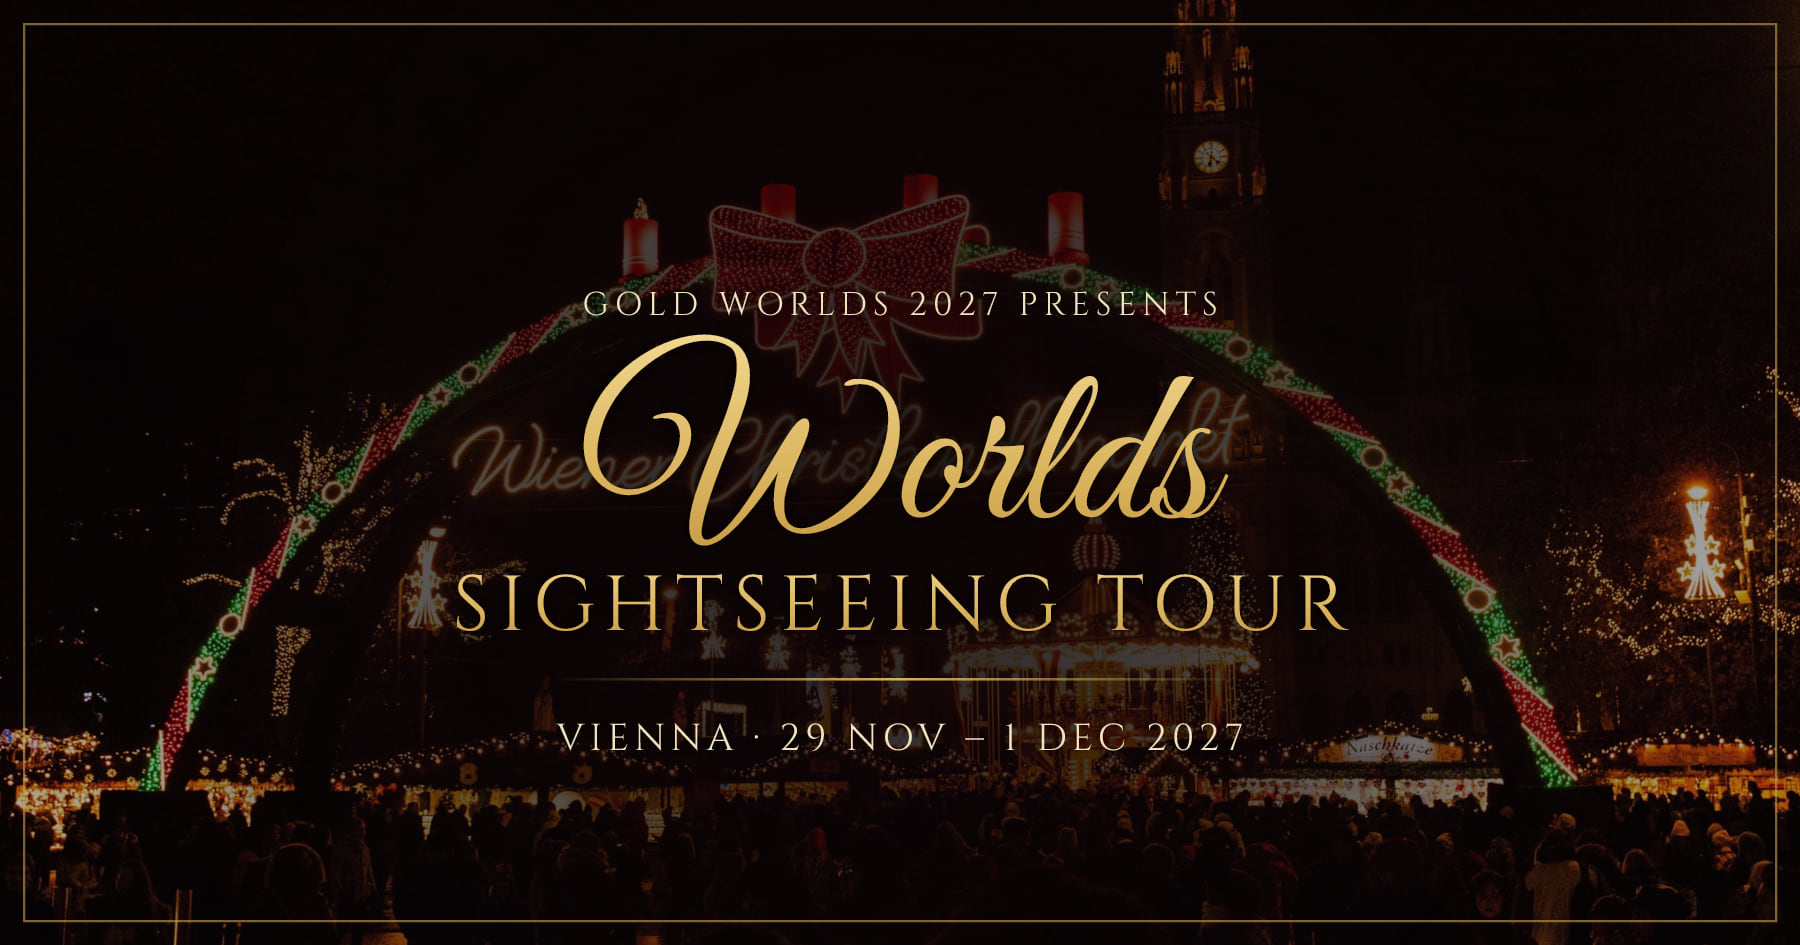
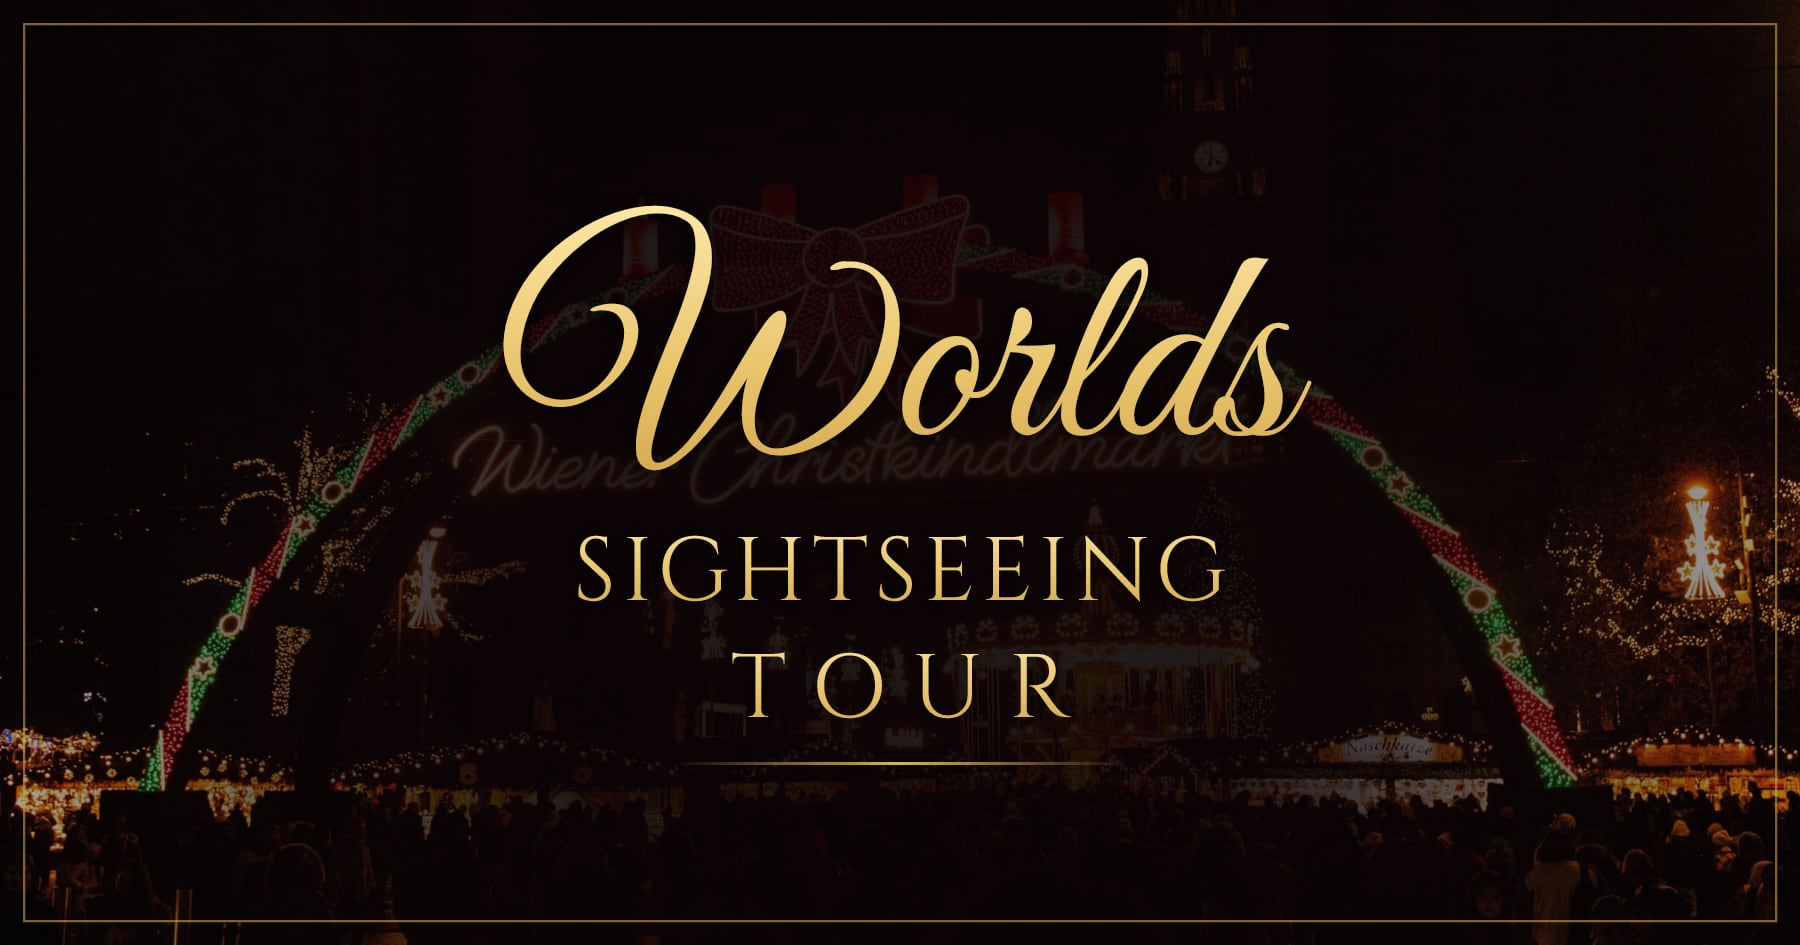
Tour share image readable as small thumbnail; add og:image type and secure_url

diff --git a/index.html b/index.html
@@ -12,7 +12,9 @@
 <meta property="og:title" content="Gold Worlds 2027 – Line Dance World Championship">
 <meta property="og:description" content="All official information, hotels, shuttle and more">
 <meta property="og:url" content="https://goldworlds2027.github.io/">
-<meta property="og:image" content="https://goldworlds2027.github.io/img/og-goldworlds.jpg?v=2">
+<meta property="og:image" content="https://goldworlds2027.github.io/img/og-goldworlds.jpg?v=3">
+<meta property="og:image:secure_url" content="https://goldworlds2027.github.io/img/og-goldworlds.jpg?v=3">
+<meta property="og:image:type" content="image/jpeg">
 <meta property="og:image:width" content="1800">
 <meta property="og:image:height" content="945">
 <meta property="og:image:alt" content="Gold Worlds 2027 emblem – Line Dance World Championship, Schwechat · Vienna, 2–5 December 2027">

diff --git a/tour.html b/tour.html
@@ -12,7 +12,9 @@
 <meta property="og:title" content="Worlds Sightseeing Tour – Gold Worlds 2027">
 <meta property="og:description" content="Three Christmas days in historic Vienna, 29 November – 1 December 2027">
 <meta property="og:url" content="https://goldworlds2027.github.io/tour.html">
-<meta property="og:image" content="https://goldworlds2027.github.io/img/og-tour.jpg?v=2">
+<meta property="og:image" content="https://goldworlds2027.github.io/img/og-tour.jpg?v=3">
+<meta property="og:image:secure_url" content="https://goldworlds2027.github.io/img/og-tour.jpg?v=3">
+<meta property="og:image:type" content="image/jpeg">
 <meta property="og:image:width" content="1800">
 <meta property="og:image:height" content="945">
 <meta property="og:image:alt" content="Worlds Sightseeing Tour – Vienna Christmas market at night, 29 Nov – 1 Dec 2027">
